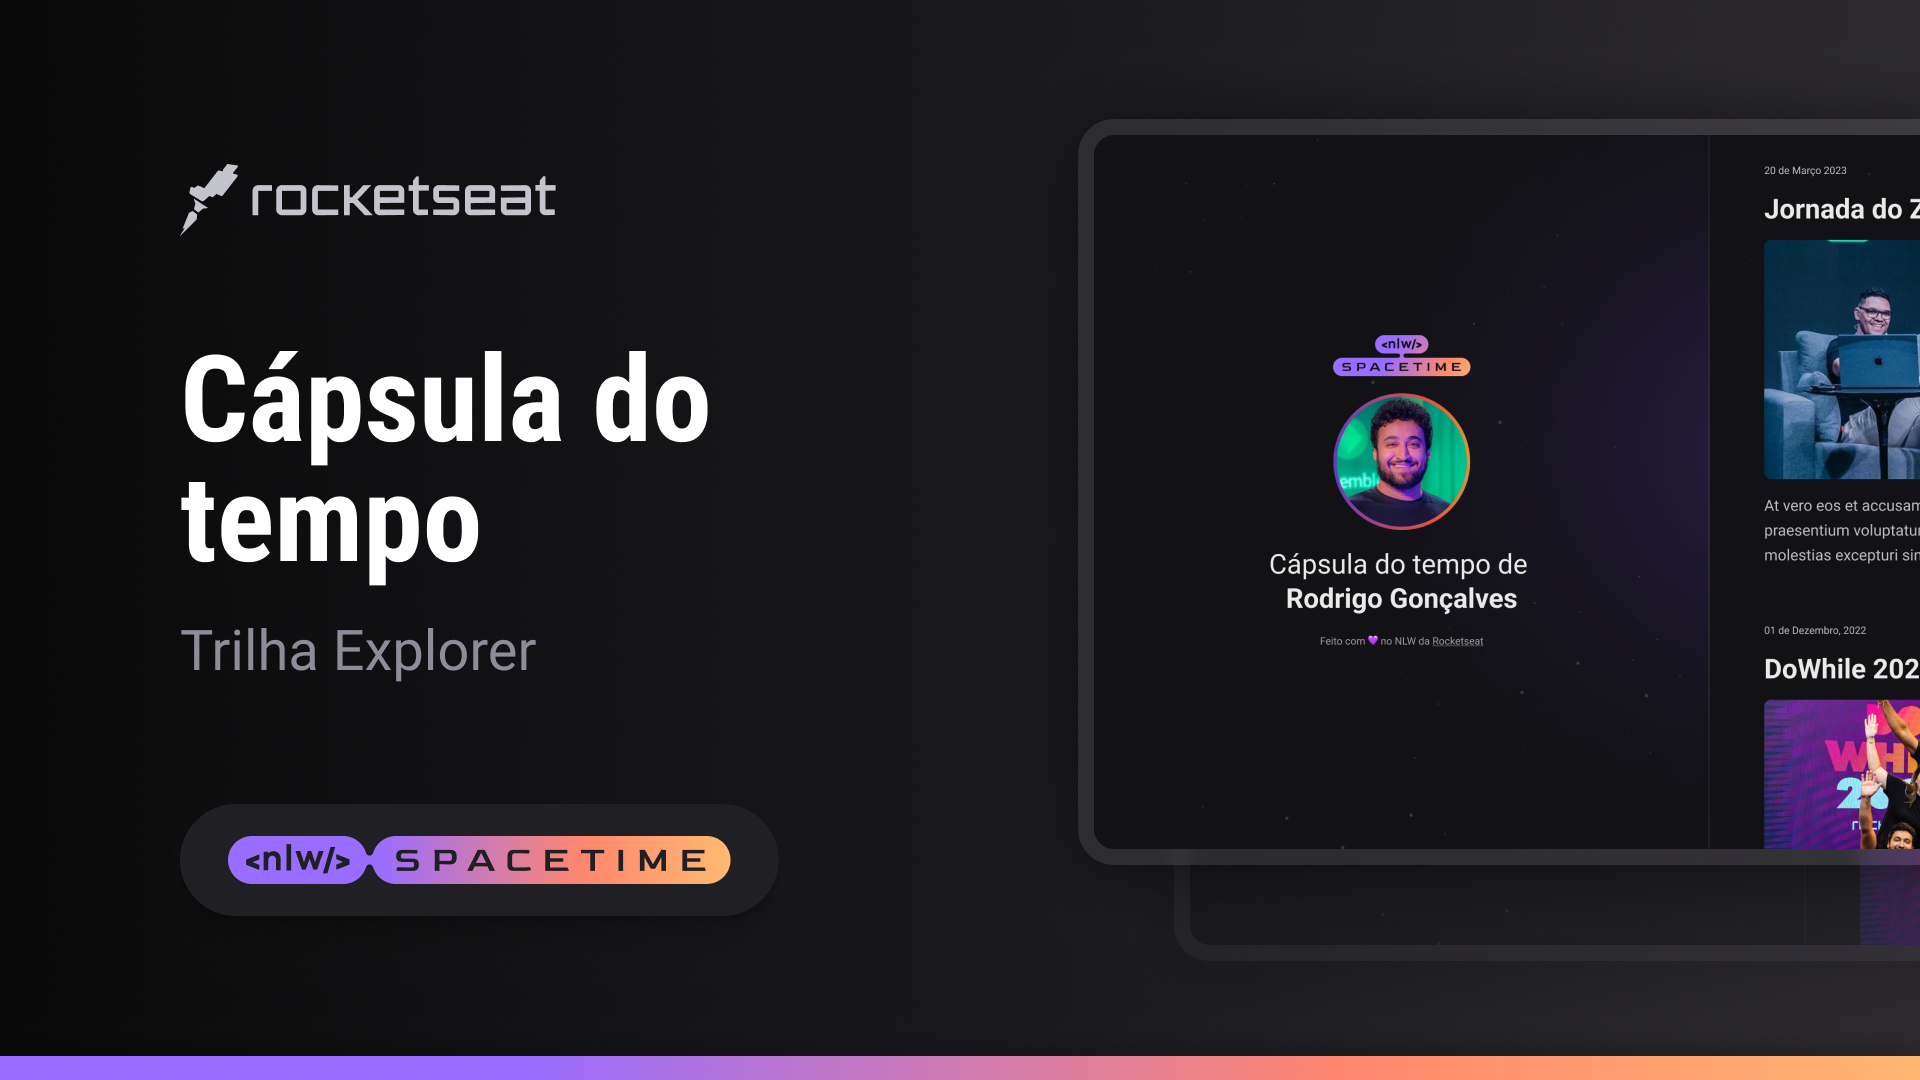
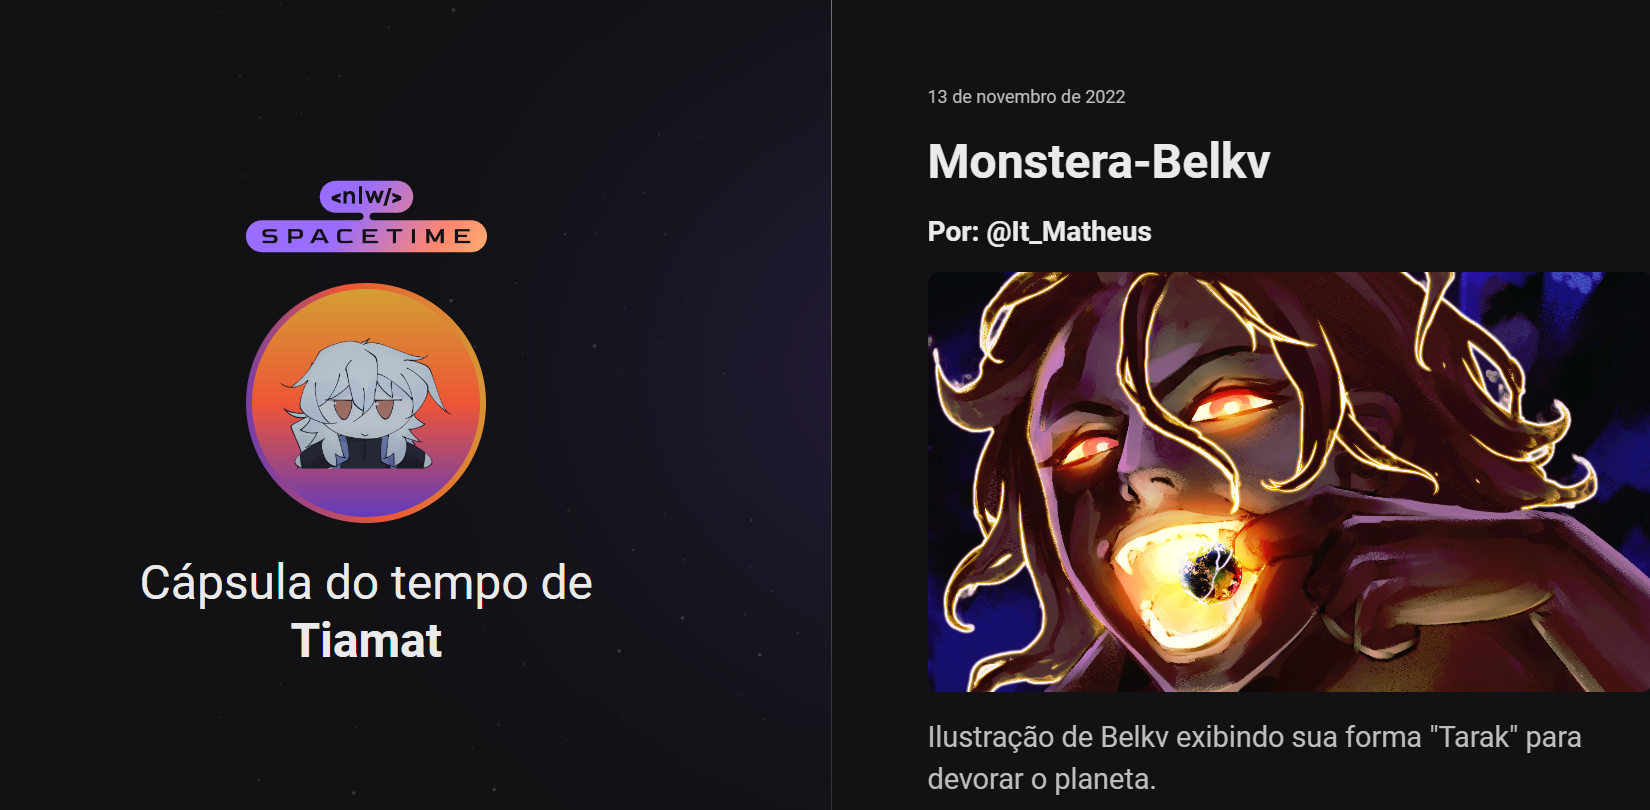
add project about

diff --git a/README.md b/README.md
@@ -3,3 +3,14 @@
 <img src=".github/preview.png" alt="demonstrção do projeto" widht="100%" >
 
 </p>
+
+## 🖥 Projeto
+Esse é um projeto Web Responsivo de uma galeria para exibir os desenhos feitos sobre a história em ordem cronológica.
+
+## 🚀 Tecnologias
+Esse projeto foi desenvolvido durante o NLW da Rocketseat com as seguintes tecnologias:
+
+-HTML
+-CSS
+-GIT e Github
+
